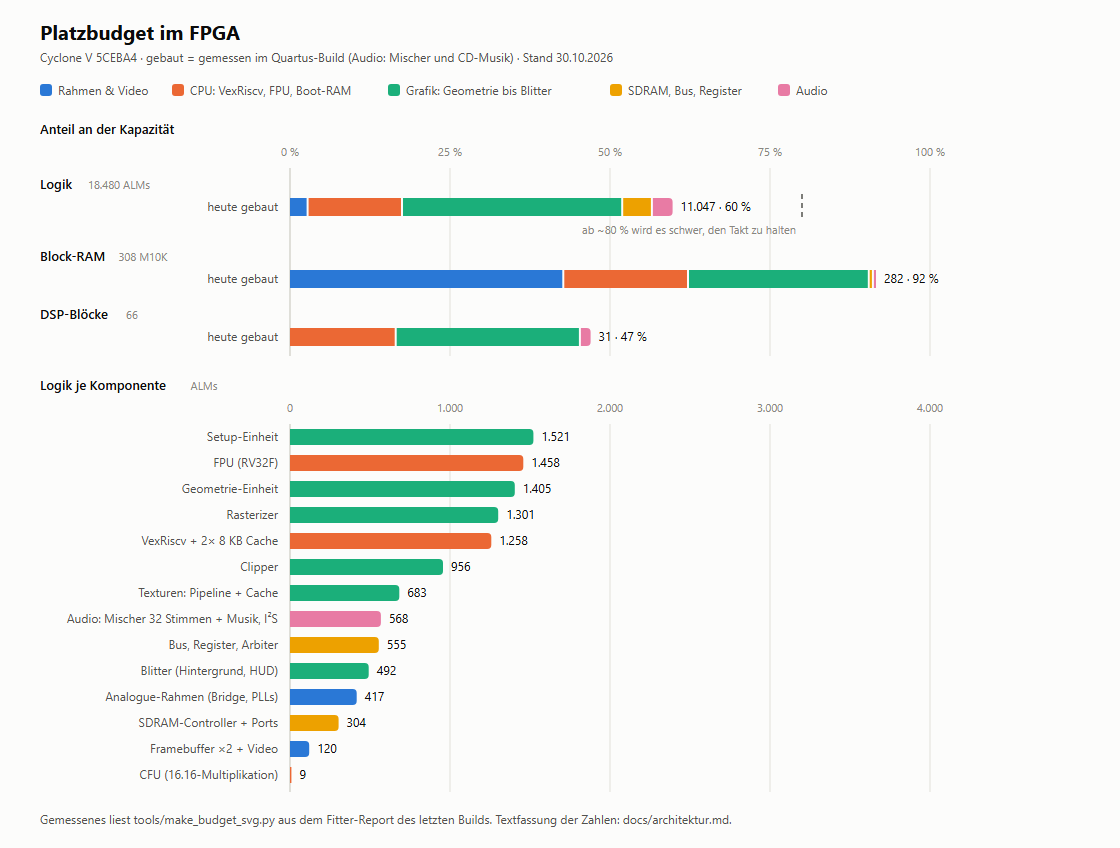
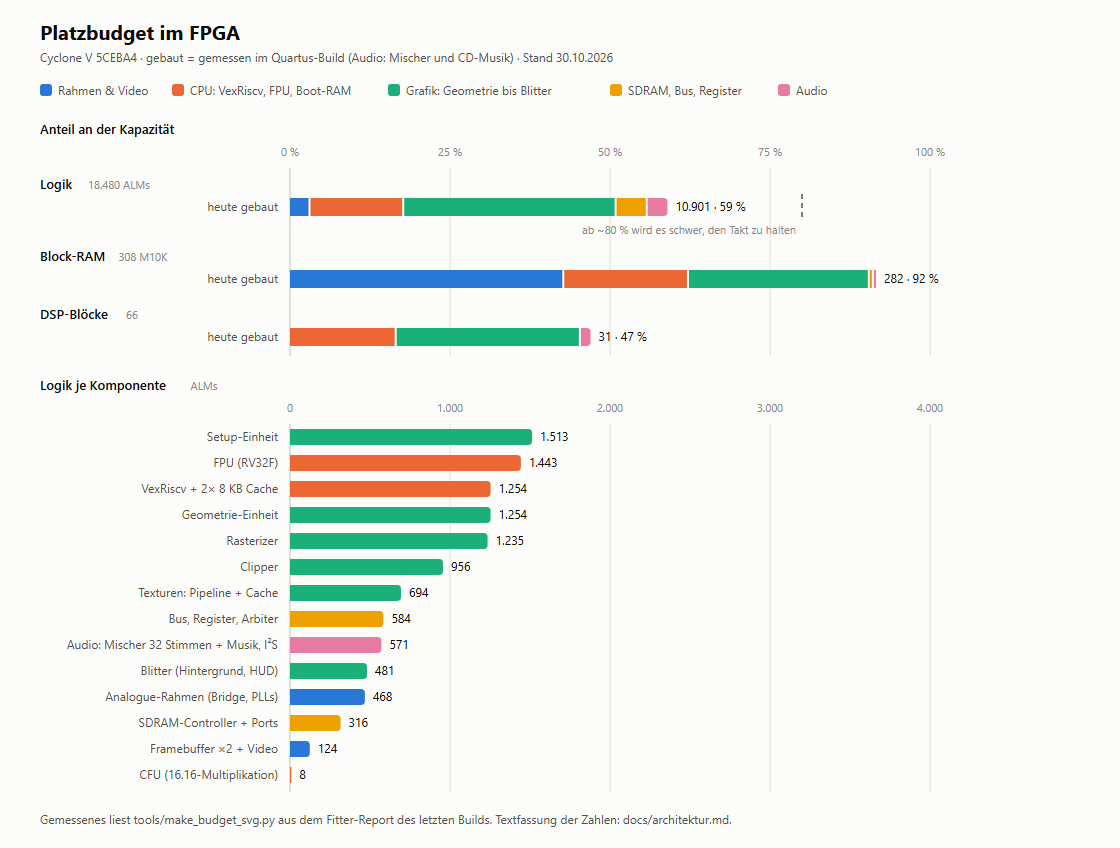
Docs: the ghosts kept in ATTACK.DAT, options in CHOICE.DAT, the build's budget

diff --git a/docs/architektur.md b/docs/architektur.md
@@ -149,7 +149,7 @@ Schrift 0, Farbe 2, y 190, blinkend), SPECIAL MODES siehe „Spezialmodi“, CHA
 ein (`0x29ea0`): nach dem Start, nach A oder SELECT in der Streckenwahl und nach jedem Rennen
 (`0x2a114` → `0x29ea0`).
 
-**Die Optionen wirken** (für die Sitzung; Speichern kommt mit den Rekorden): LAP NUMBER ist
+**Die Optionen wirken** (gespeichert in `CHOICE.DAT`, siehe „Meisterschaft“): LAP NUMBER ist
 die Rundenzahl des Rennens (`car_laps` in `car.c`; das Original nimmt `0x21e0` + 1: 3, 5, 10,
 25), Ende des Rennens und „1/3“ der Anzeige folgen ihr. Die Schwierigkeit wählt die Datei
 `MAPnA.DTR`, `MAPnB.DTR` oder `MAPnC.DTR` (`0x13251`; `track_build_difficulty`), aus der der
@@ -208,8 +208,8 @@ schnell `TRY AGAIN` (`GAME.TXT` 13) und „lose“, sonst (oder ohne Geist) `YOU
 `REPLAYS\MAPn.ATK`) und PLAY AGAIN fährt gegen ihn. Bei uns: eine Stellung je 4 Schritte
 (12,5/s) ab dem Aufbau, abgespielt im selben Schritt, der Ort über die Kubik des Originals
 durch vier Stellungen (`0x22724`), die Winkel zwischen zwei Stellungen gedreht; ohne Schatten
-und Motor. Je Strecke der beste Geist für die Sitzung (`ghost_track()`, im Format der
-Speicherdatei: 16 Byte Kopf „ATK1“, Strecke, Auto, Anzahl, Runde in 1/50 s, Startplatz; dann je
+und Motor. Je Strecke der beste Geist, gespeichert in `ATTACK.DAT` (`ghost_track()` liegt
+im Speicher dieses Slots, siehe „Meisterschaft“), im Format der Speicherdatei: 16 Byte Kopf „ATK1“, Strecke, Auto, Anzahl, Runde in 1/50 s, Startplatz; dann je
 Stellung 20 Byte: x, y, Höhe als int32, Richtung, Neigung, Rollen als int16 mit 65536 = 2π, Stand
 im Rennen × 64 und die Bremslicht-Bits; höchstens 3000 Stellungen, 60.016 Byte). `MODE=4
 GHOST=1 REPLAYCHECK=9000 tools/render.sh` fährt zwei Roboterrennen, das zweite gegen den Geist
@@ -276,7 +276,9 @@ nachgelesen): Regeln in `firmware/champ.c`, der Bildschirm 5 in `menu.c`, der Ab
   DOS-Spiel geht auch. Die Rekorde stehen schon darin, für VIEW RECORDS später. Für das
   Zeitfahren (`REPLAYS\MAPn.ATK` des Originals: 36 Byte Kopf mit der Bestzeit bei +0x1c,
   dann je gezeichnetem Bild ein Satz von 40 Byte mit Ort, Lage und Uhr, `0x1b964`,
-  `0x1ba3c`, `0x231d0`) gibt es den Slot `ATTACK.DAT` (id 24), je Strecke 60 KB.
+  `0x1ba3c`, `0x231d0`) hält der Slot `ATTACK.DAT` (id 24) je Strecke den behaltenen Lauf
+  (`struct ghost_file`, 60.016 Byte, zusammen 360.096): `ghost_track(n)` zeigt direkt in
+  seinen Speicher, so überlebt der Geist das Ausschalten wie `CHOICE.DAT`.
 
 ## Strecken- und Autowahl
 
@@ -433,10 +435,13 @@ Fahrbahn (offen, am Original zu prüfen).
 
 ## Belegung
 
-Gemessen am 2026-10-30 (Quartus-Build mit den Spiegelungen der Routine 160, Timing hält bei
-74,25 MHz: Setup +0,85 ns, Hold +0,01 ns; Bauzeit 6 min): 11.046 von 18.480 ALMs (60 %), 282
-von 308 M10K (92 %, davon 16 die Tabelle der Routine 224), 31 von 66 DSP (47 %). Die
-Spiegelungen kosten 727 ALMs und 1 M10K in der Geometrie-Einheit (678 → 1.405 ALMs: die
+Gemessen am 2026-10-30 (Quartus-Build mit dem Lesen über die Bridge aus dem SDRAM für die
+Spielstände, Timing hält bei 74,25 MHz: Setup +0,78 ns, Hold +0,08 ns; Bauzeit 5,5 min): 10.902
+von 18.480 ALMs (59 %), 282 von 308 M10K (92 %, davon 16 die Tabelle der Routine 224), 31 von
+66 DSP (47 %). Das Lesen kostet rund 46 ALMs (`sdram_port` 102 → 118, die eigene Logik von
+`soc` 554 → 585: Leseregister, Antwort, Größe in die Slot-Tabelle) und kein M10K; dass die
+Summe sank, ist die Platzierung. Davor (mit den Spiegelungen der Routine 160): 11.046 ALMs,
+Setup +0,85 ns, Hold +0,01 ns. Die Spiegelungen kosten 727 ALMs und 1 M10K in der Geometrie-Einheit (678 → 1.405 ALMs: die
 Auswahl vor ihren drei Multiplizierern, jetzt 18 Bit breit, der Normierer des Eckpunkts, die
 Umrechnung der Normale, Summen und Register der Rechnung, die Tabelle), keinen DSP. Davor
 (mit der CD-Musik): 10.278 ALMs, 281 M10K, Setup +0,94 ns, Hold +0,06 ns. Der Mischer mit der Musik:
@@ -470,7 +475,7 @@ Block-RAM spart er 190 ALMs, kostet aber 19 M10K, die knappere Ressource). Setup
 3.041 → 1.512, Geometrie-Einheit 2.288 → 648, Rasterizer mit Texturen 2.539 → 1.895 ALMs; dafür
 11 M10K mehr und 5 DSP weniger. Geschätzt ist nur, was noch fehlt.
 
-![Platzbudget im FPGA: Logik 60 %, Block-RAM 92 %, DSP 47 %](ressourcen.svg)
+![Platzbudget im FPGA: Logik 59 %, Block-RAM 92 %, DSP 47 %](ressourcen.svg)
 
 Die Grafik erzeugt `tools/make_budget_svg.py`: die gemessenen Zeilen aus dem Fitter-Report
 (`core/src/fpga/output_files/ap_core.fit.rpt`, Tabelle „Resource Utilization by Entity“), die
@@ -479,22 +484,22 @@ diese Tabelle.
 
 | Komponente | ALMs | M10K | DSP |
 |---|---|---|---|
-| Analogue-Rahmen (Bridge, PLLs) | 417 | 2 | – |
-| Framebuffer ×2 + Video | 120 | 130 | – |
-| VexRiscv + 2× 8 KB Cache | 1.258 | 19 | 4 |
-| FPU (RV32F) | 1.458 | 5 | 4 |
-| CFU (16.16-Multiplikation) | 9 | – | 3 |
+| Analogue-Rahmen (Bridge, PLLs) | 468 | 2 | – |
+| Framebuffer ×2 + Video | 124 | 130 | – |
+| VexRiscv + 2× 8 KB Cache | 1.254 | 19 | 4 |
+| FPU (RV32F) | 1.443 | 5 | 4 |
+| CFU (16.16-Multiplikation) | 8 | – | 3 |
 | Boot-RAM 32 KB + Protokoll | – | 36 | – |
-| Geometrie-Einheit | 1.405 | 23 | 4 |
+| Geometrie-Einheit | 1.254 | 23 | 4 |
 | Clipper | 956 | 6 | 2 |
-| Setup-Einheit | 1.521 | 7 | 4 |
-| Rasterizer | 1.301 | 2 | 5 |
-| Texturen: Pipeline + Cache | 683 | 47 | 4 |
-| Blitter (Hintergrund, HUD) | 492 | 2 | – |
-| SDRAM-Controller + Ports | 304 | 2 | – |
-| Audio: Mischer 32 Stimmen + Musik, I²S | 568 | 1 | 1 |
-| Bus, Register, Arbiter | 555 | – | – |
-| **gebaut** | **11.047 (60 %)** | **282 (92 %)** | **31 (47 %)** |
+| Setup-Einheit | 1.513 | 7 | 4 |
+| Rasterizer | 1.235 | 2 | 5 |
+| Texturen: Pipeline + Cache | 694 | 47 | 4 |
+| Blitter (Hintergrund, HUD) | 481 | 2 | – |
+| SDRAM-Controller + Ports | 316 | 2 | – |
+| Audio: Mischer 32 Stimmen + Musik, I²S | 571 | 1 | 1 |
+| Bus, Register, Arbiter | 584 | – | – |
+| **gebaut** | **10.901 (59 %)** | **282 (92 %)** | **31 (47 %)** |
 
 Knapp wird die Logik: ab etwa 80 % Belegung wird es auf dem Cyclone V schwer, die
 Taktfrequenz zu halten. Das zeigt sich beim Bauen (Timing-Analyse, `tools/build.sh` meldet es

diff --git a/docs/soc.md b/docs/soc.md
@@ -229,7 +229,8 @@ die neue Firmware den Bereich löscht, steht dort noch das Protokoll des vorigen
 **Spielstände** gehen denselben Weg, liegen aber im SDRAM: die nichtflüchtigen Data-Slots
 `CHOICE.DAT` (id 23, `0x13F0_0000`, 1120 Byte: die Einstellungsdatei des Originals mit
 Optionen, Meisterschaft, Rekorden und Freischaltungen) und `ATTACK.DAT` (id 24, `0x13F1_0000`,
-6 × 60 KB für die Bestzeiten und Geister des Zeitfahrens). Beide sind `deferload`: Die
+6 × 60.016 Byte: je Strecke der behaltene Lauf des Zeitfahrens, `struct ghost_file` in
+`ghost.h`, den `ghost.c` direkt dort liest und schreibt). Beide sind `deferload`: Die
 Firmware liest sie gleich nach dem Start (`save_load` in `save.c`), ohne Datei oder bei einem
 `CHOICE.DAT`, das nicht wie das des Originals aussieht, nimmt sie die Vorgaben des Originals
 (`0x1bbb8`), und trägt dann mit `DS_SIZE` die volle Größe in die Slot-Tabelle ein, damit der
